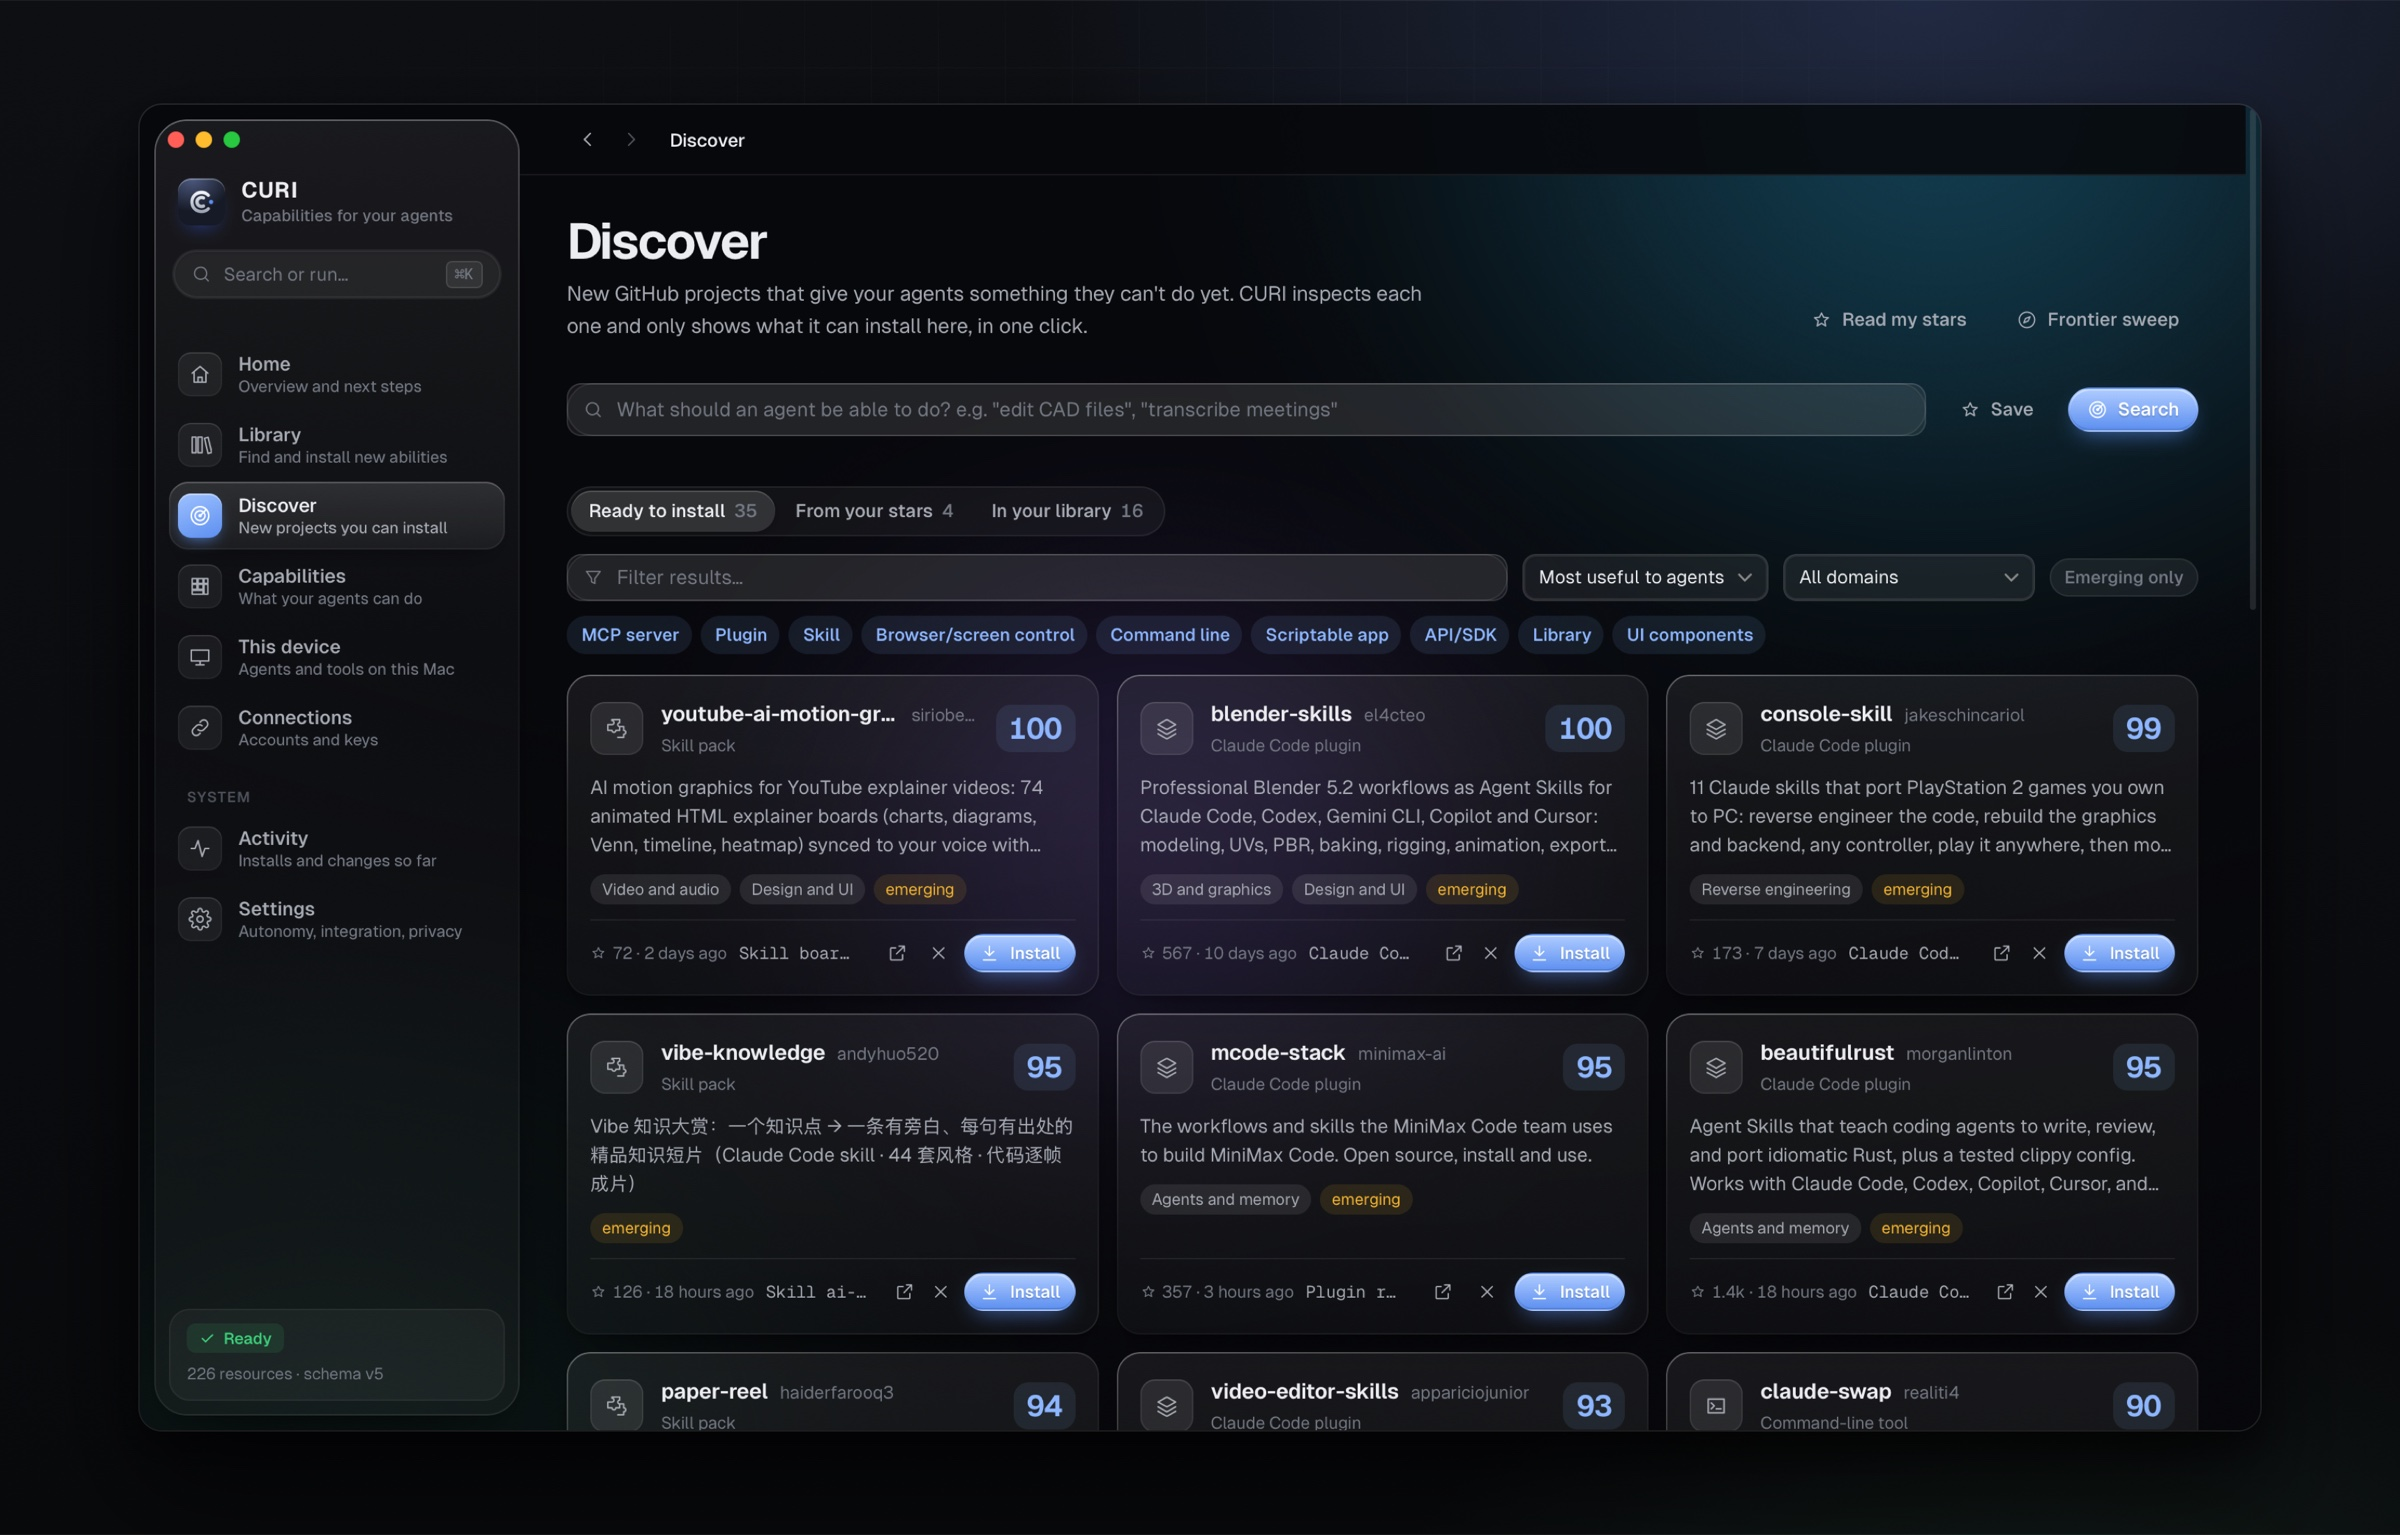
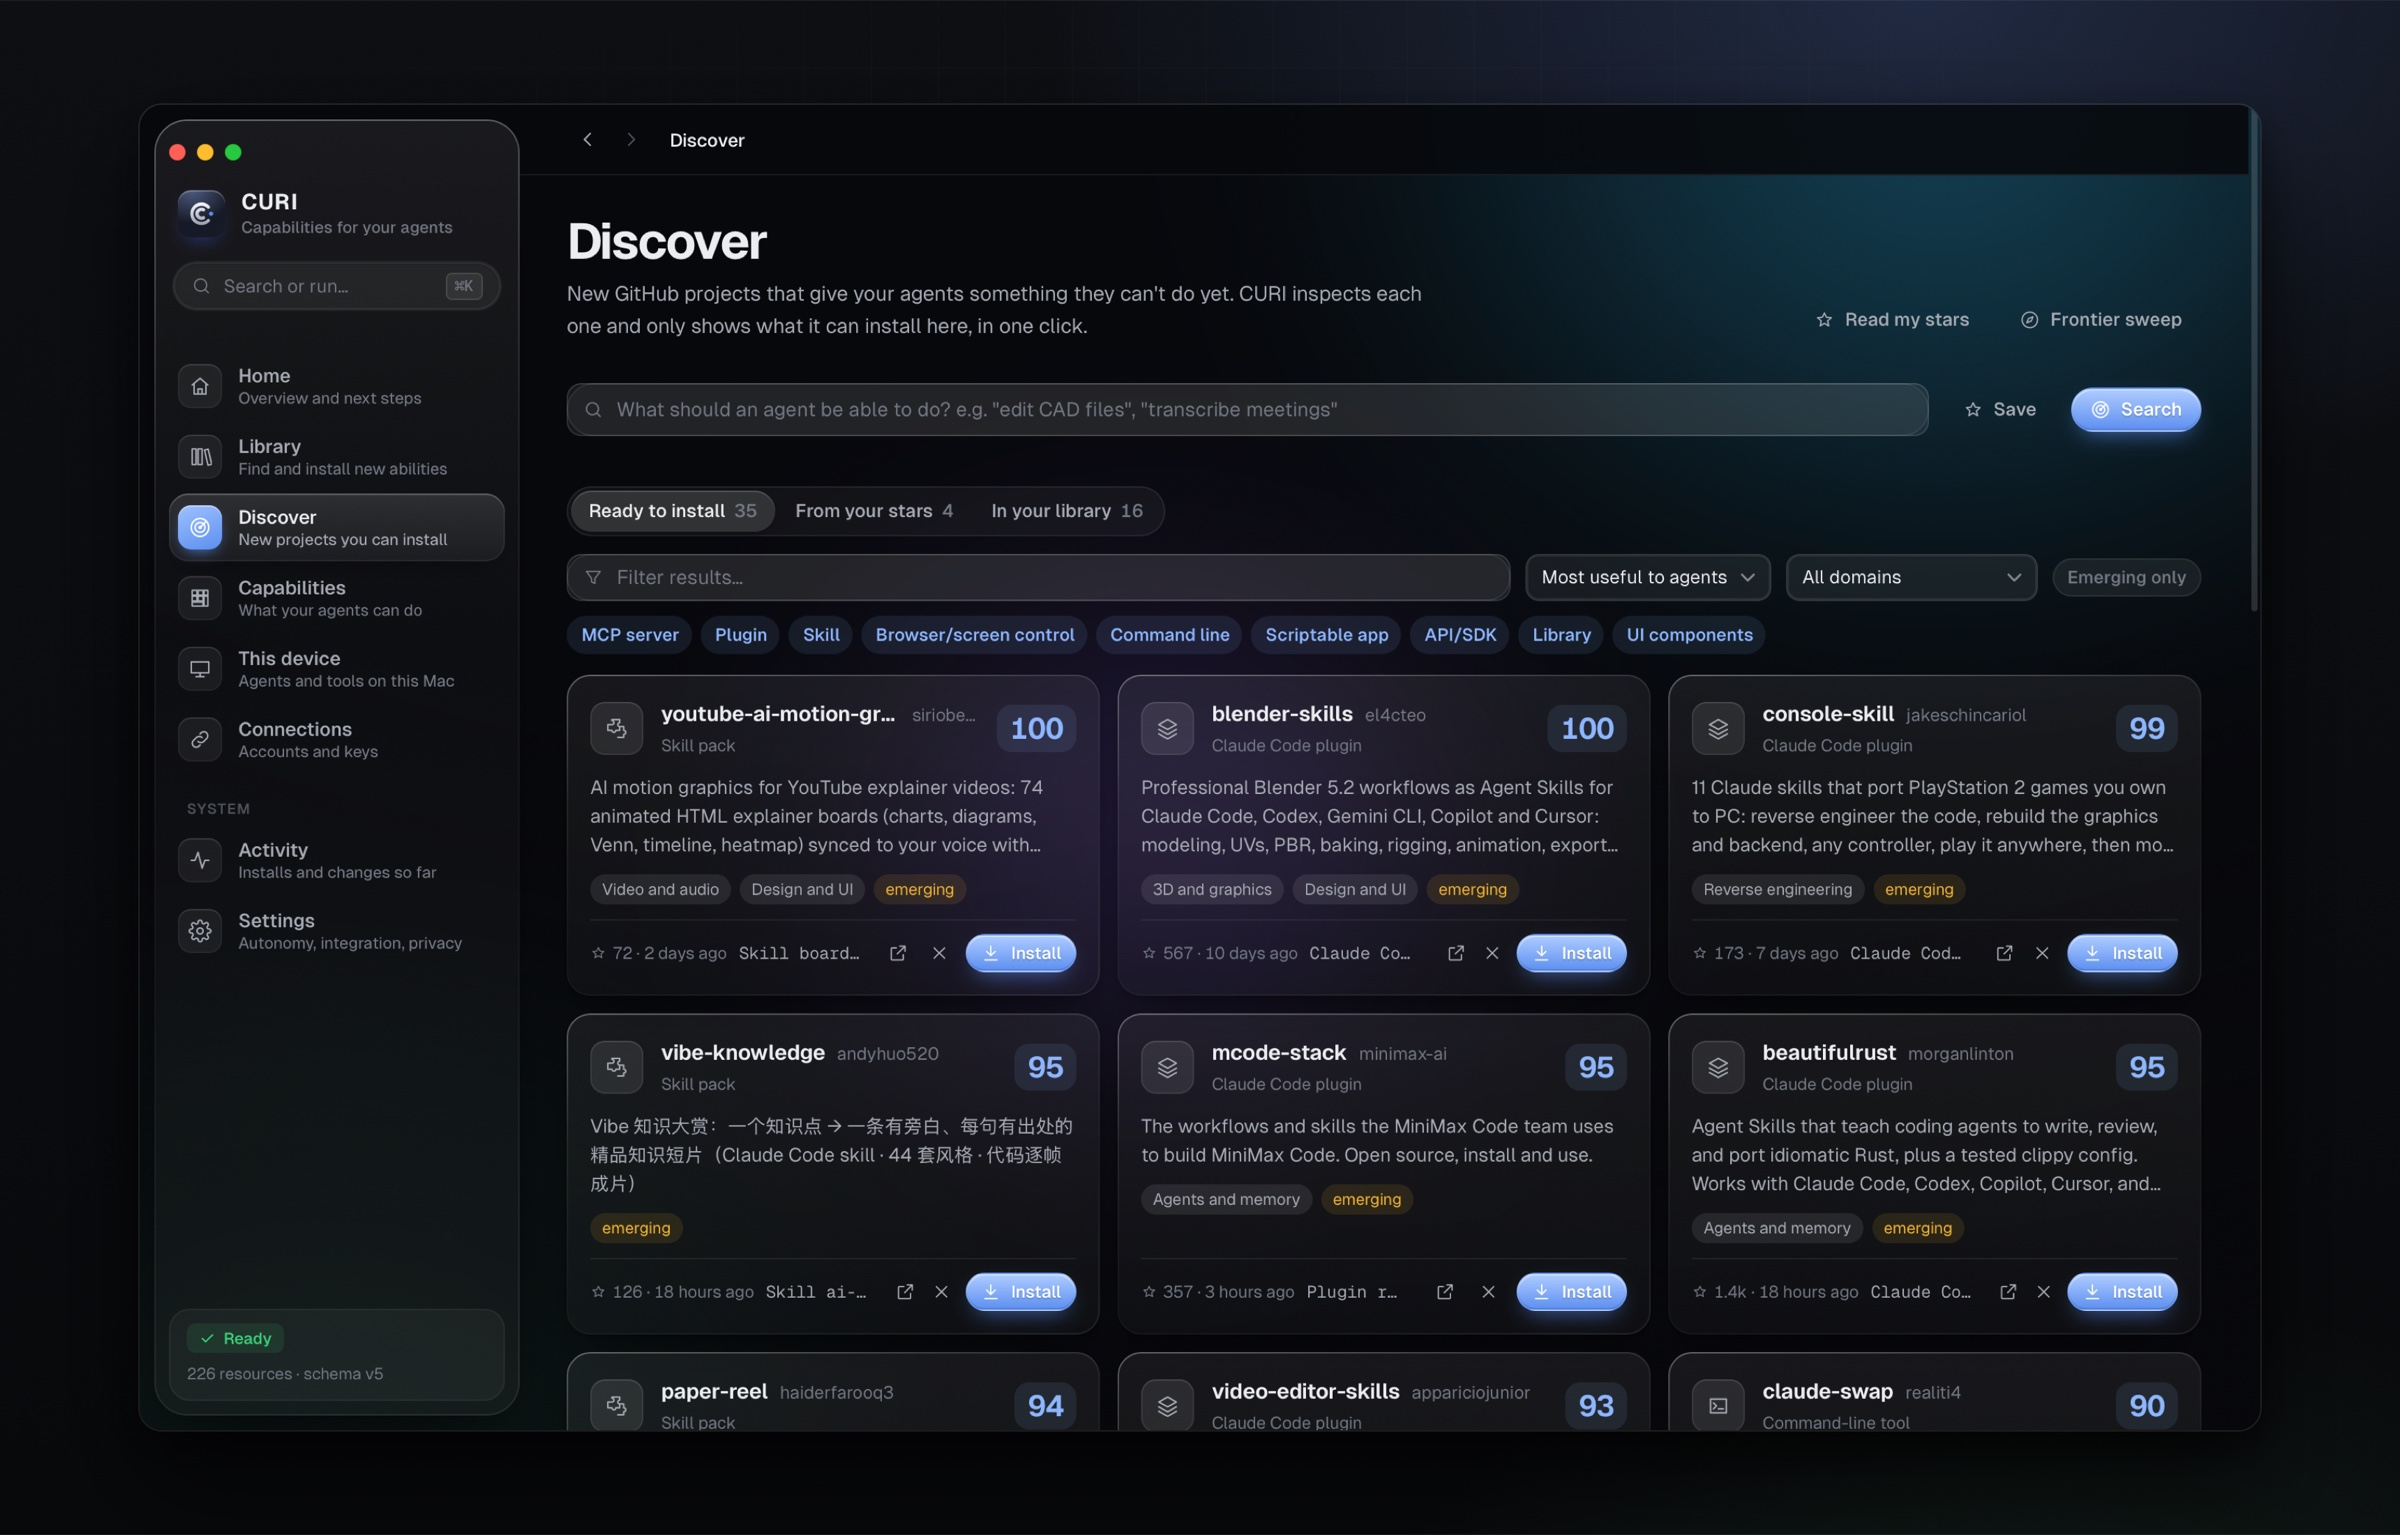
3.5.3: working back/forward arrows, cleaner window edges
The title-bar drag strip was painted over the top bar after the glass
update, so the back/forward arrows never got their clicks. It now sits
under the content. Also moves the window buttons inside the sidebar,
drops the leftover system vibrancy and thins the scrollbar.

diff --git a/app/glass.css b/app/glass.css
@@ -146,7 +146,7 @@ main > .page { position: relative; z-index: 0; isolation: isolate; }
 }
 .sidebar::before { content: ""; position: absolute; inset: 0; border-radius: inherit; padding: 1px; background: var(--glass-rim); pointer-events: none; z-index: 3;
   -webkit-mask: linear-gradient(#000 0 0) content-box, linear-gradient(#000 0 0); -webkit-mask-composite: xor; mask-composite: exclude; }
-html.native .sidebar { padding-top: calc(var(--titlebar-h) - 10px); }
+html.native .sidebar { padding-top: 46px; }
 html:not(.native) .sidebar { padding-top: 18px; }
 :root[data-theme="light"] .sidebar { background: linear-gradient(180deg, rgba(255,255,255,.72), rgba(255,255,255,.5)); }
 @media (prefers-color-scheme: light) { :root:not([data-theme]) .sidebar { background: linear-gradient(180deg, rgba(255,255,255,.72), rgba(255,255,255,.5)); } }
@@ -182,3 +182,14 @@ html:not(.native) .sidebar { padding-top: 18px; }
   .shell { grid-template-columns: 74px 1fr; }
   .nav a > svg.i { margin: 0 auto; }
 }
+
+/* The title-bar drag strip sits under the content: empty space still drags the window, but the
+   back/forward arrows and everything else in the top bar get their clicks. */
+.titlebar { z-index: 0; }
+main { z-index: 1; }
+
+/* Thin scrollbar so the right edge doesn't show a band where the top bar stops. */
+main::-webkit-scrollbar { width: 8px; }
+main::-webkit-scrollbar-thumb { background: rgba(255,255,255,.14); border: 2px solid transparent; background-clip: content-box; border-radius: 8px; }
+main::-webkit-scrollbar-thumb:hover { background-color: rgba(255,255,255,.24); }
+main::-webkit-scrollbar-track { background: transparent; }

diff --git a/app/app.js b/app/app.js
@@ -133,7 +133,7 @@ function shell() {
   document.body.prepend(h('div', { class: 'titlebar', 'data-tauri-drag-region': '' }));
   document.body.append(h('div', { class: 'shell' },
     h('div', { class: 'aurora', 'aria-hidden': 'true' }, h('i'), h('i'), h('i')),
-    h('aside', { class: 'sidebar' },
+    h('aside', { class: 'sidebar', 'data-tauri-drag-region': '' },
       h('div', { class: 'brand', 'data-tauri-drag-region': '' }, h('span', { class: 'brand-mark', 'aria-hidden': 'true' }, brandMark({ small: true, size: 18 })), h('div', { class: 'brand-text' }, h('div', { class: 'brand-name' }, 'CURI'), h('div', { class: 'brand-sub' }, 'Capabilities for your agents'))),
       h('button', { type: 'button', class: 'search-trigger', onclick: () => openPalette(), 'aria-label': 'Open command palette' }, icon('search', 'sm'), h('span', null, 'Search or run…'), h('kbd', null, '⌘K')),
       nav,

diff --git a/brand/readme/hero.html b/brand/readme/hero.html
@@ -39,7 +39,7 @@
     box-shadow: 0 0 0 1px rgba(255,255,255,.12), 0 50px 100px rgba(0,0,0,.7), -20px 20px 60px rgba(0,0,0,.4); position: relative; }
   .shot img { display: block; width: 100%; height: 100%; object-fit: cover; object-position: top left; }
   .shot::after { content: ''; position: absolute; inset: 0; background: linear-gradient(100deg, rgba(255,255,255,.07), transparent 35%); }
-  .lights { position: absolute; top: 15px; left: 16px; display: flex; gap: 7px; z-index: 1; }
+  .lights { position: absolute; top: 21px; left: 17px; display: flex; gap: 7px; z-index: 1; }
   .lights i { width: 10px; height: 10px; border-radius: 50%; } .lights i:nth-child(1) { background: #ff5f57; } .lights i:nth-child(2) { background: #febc2e; } .lights i:nth-child(3) { background: #28c840; }
 </style>
 </head>

diff --git a/brand/readme/frame.html b/brand/readme/frame.html
@@ -29,7 +29,7 @@
     box-shadow: 0 0 0 1px rgba(255,255,255,.10), 0 1px 0 rgba(255,255,255,.14) inset, 0 40px 90px rgba(0,0,0,.65), 0 12px 30px rgba(0,0,0,.45);
   }
   .win img { display: block; width: 100%; height: 100%; object-fit: cover; object-position: top left; }
-  .lights { position: absolute; top: 19px; left: 20px; display: flex; gap: 8px; }
+  .lights { position: absolute; top: 28px; left: 21px; display: flex; gap: 8px; }
   .lights i { width: 12px; height: 12px; border-radius: 50%; box-shadow: inset 0 0 0 .5px rgba(0,0,0,.25); }
   .lights i:nth-child(1) { background: #ff5f57; } .lights i:nth-child(2) { background: #febc2e; } .lights i:nth-child(3) { background: #28c840; }
 </style>

diff --git a/CHANGELOG.md b/CHANGELOG.md
@@ -1,5 +1,11 @@
 # Changelog
 
+## 3.5.3 - 2026-10-29
+
+- Fixed: the back and forward arrows didn't respond. The invisible strip that lets you drag the window was sitting on top of them since the glass update; it now sits underneath, so empty space still drags the window and the arrows work.
+- The window buttons (close, minimise, zoom) now sit properly inside the sidebar instead of on its top edge.
+- No more grey system blur showing at the window's edges, and a thinner scrollbar so the right edge doesn't show a band.
+
 ## 3.5.2 - 2026-10-29
 
 - New sidebar that matches the rest of the app: a floating pane of glass over the same colour field, instead of the grey system sidebar.

diff --git a/README.md b/README.md
@@ -2,7 +2,7 @@
 
 <p align="center">
   <img alt="macOS 13+" src="https://img.shields.io/badge/macOS-13%2B-1b1c21?style=flat-square&logo=apple&logoColor=white">
-  <img alt="Version 3.5.2" src="https://img.shields.io/badge/version-3.5.2-6e96ff?style=flat-square">
+  <img alt="Version 3.5.3" src="https://img.shields.io/badge/version-3.5.3-6e96ff?style=flat-square">
   <img alt="Runs locally" src="https://img.shields.io/badge/runs-100%25%20local-5fd39a?style=flat-square">
   <img alt="MIT licence" src="https://img.shields.io/badge/licence-MIT-a6aab3?style=flat-square">
 </p>
